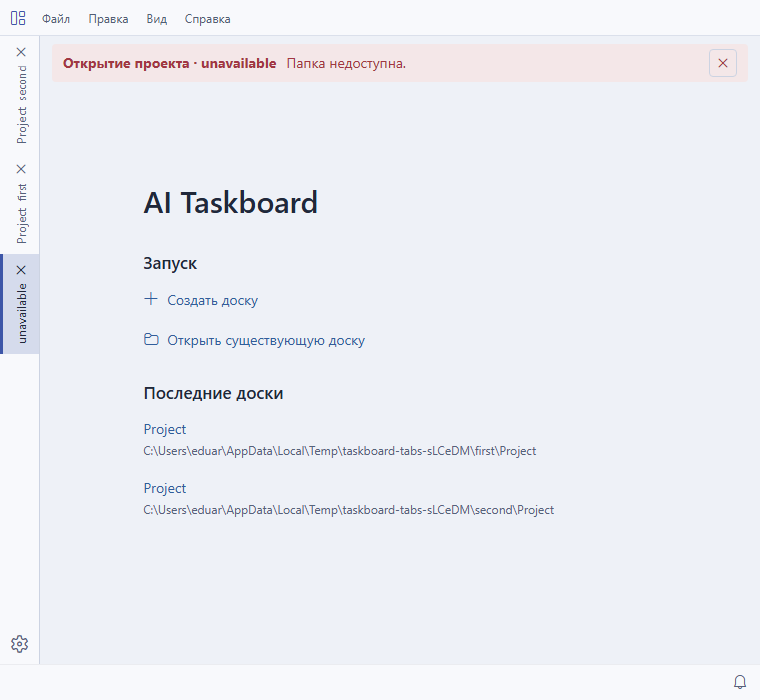
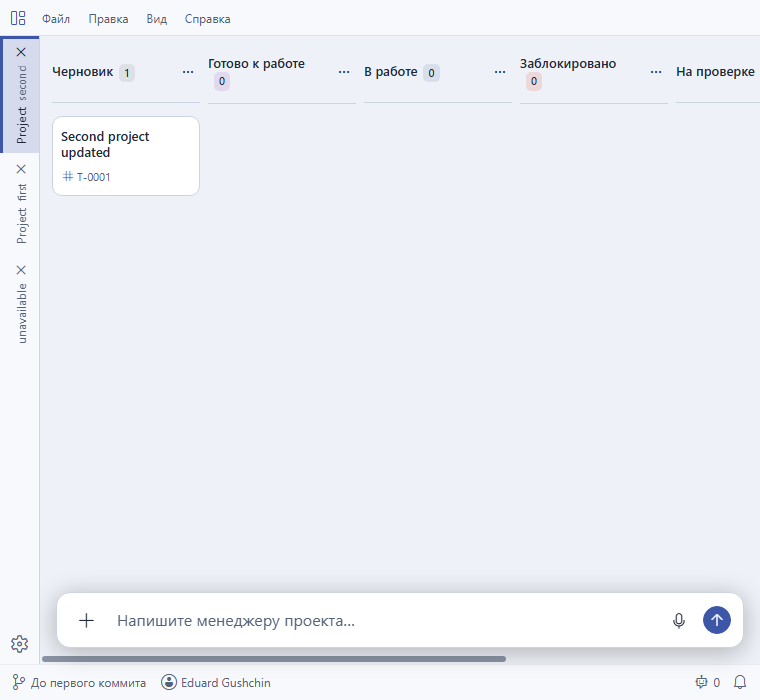
test: verify tab reordering after merging main
Task: T-0058

diff --git a/evidence/T-0058/verification.md b/evidence/T-0058/verification.md
@@ -30,7 +30,7 @@ git diff --check
 node --test tests/project-tabs.test.ts
 ```
 
-- Electron — 40 проверок открытия и перестановки, 9 проверок восстановления, код выхода 0. Дополнительно проверено, что перестановка при фоновой операции не прерывает её и не меняет выбранный проект. Использованы синтетические DragEvent в настоящем renderer и штатный IPC/main process. Временный профиль удалён в finally после завершения Electron; отсутствие каталога проверено.
+- Electron — 41 проверка открытия и перестановки, 9 проверок восстановления, код выхода 0. Дополнительно проверено, что перестановка при фоновой операции не прерывает её и не меняет выбранный проект. Перед снимком проверено наличие индикатора вставки и завершение отрисовки выбранной вкладки. Использованы синтетические DragEvent в настоящем renderer и штатный IPC/main process. Временный профиль удалён в finally после завершения Electron; отсутствие каталога проверено.
 
 ```powershell
 node scripts/check-project-tabs.mjs --reorder-only --artifacts evidence/T-0058
@@ -56,5 +56,5 @@ node scripts/check-icons.mjs
 
 ## Скриншоты
 
[3 lines of base64/hex data omitted]
